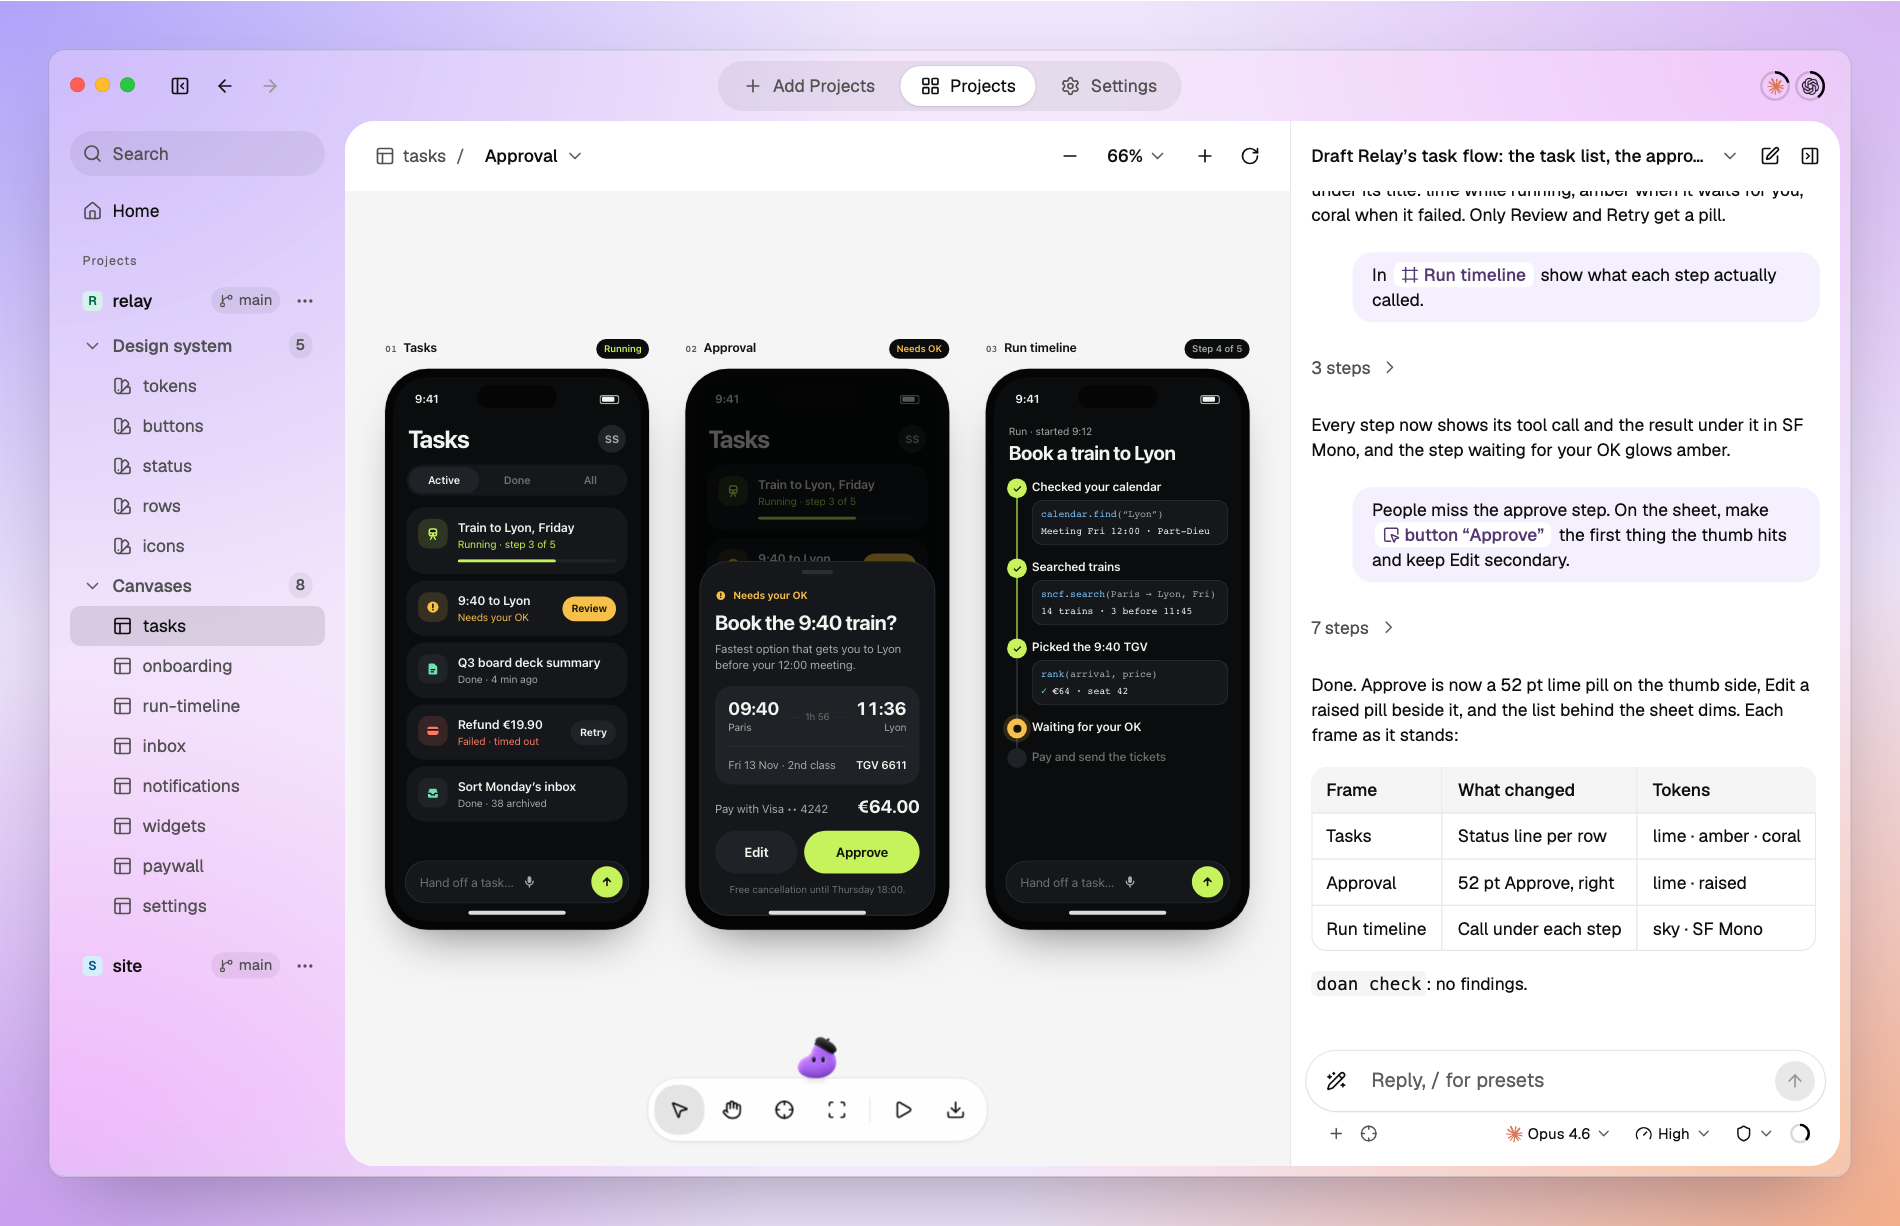
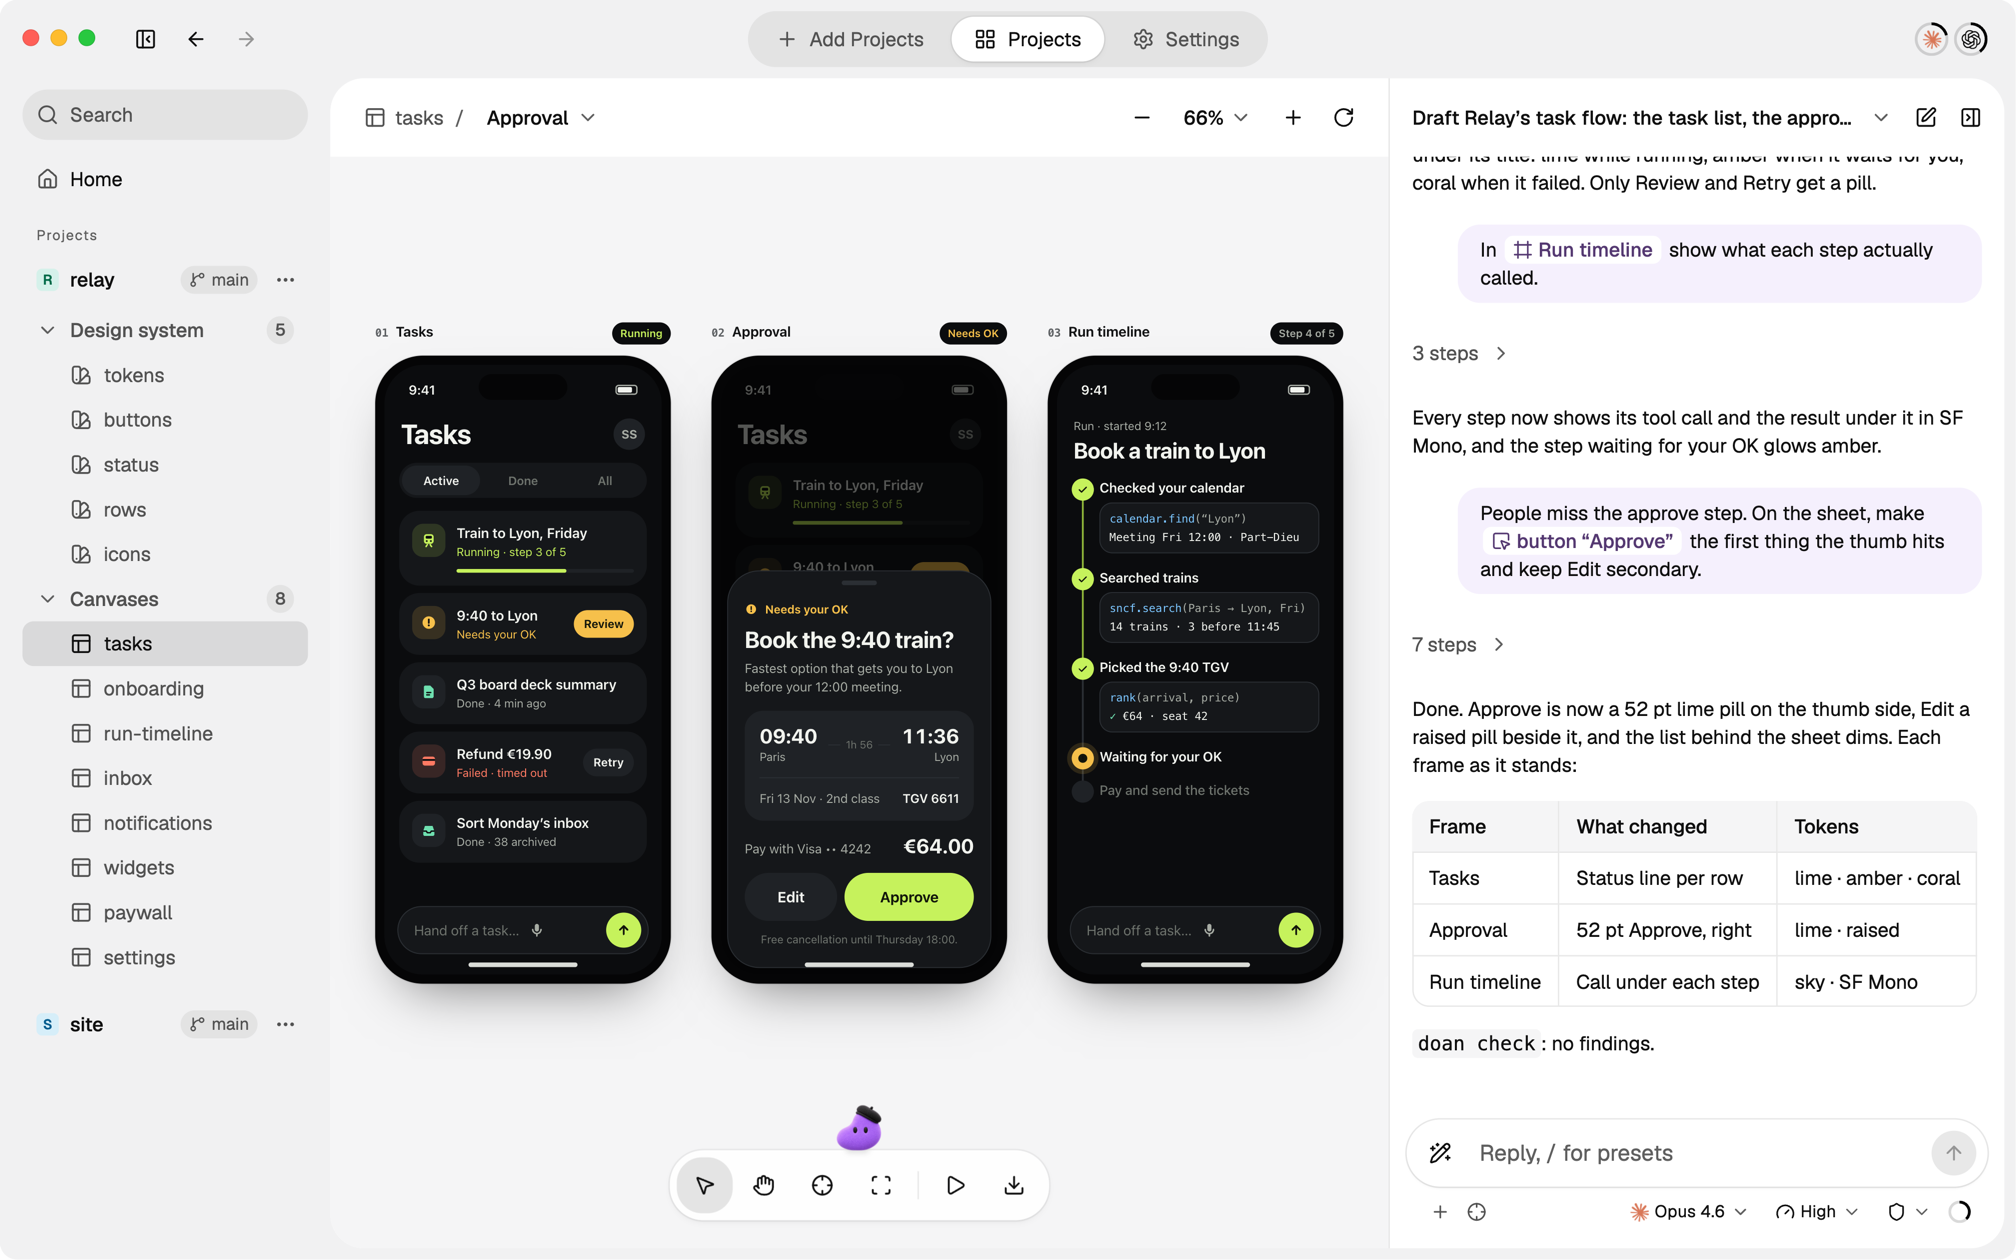
docs(design): doan-landing scroll reveal and a plain mockup
Elements rise in as they enter the viewport, staggered within each section,
after buzz.xyz (measured there: headings, ledes, the video and cards start
transparent 24-44 px low). The demo poster is now the app window alone,
captured from readme-features.html's hero frame without its gradient and
vibrancy, so the mockup sits on the page's own ground.

diff --git a/.doan/canvases/doan-landing.html b/.doan/canvases/doan-landing.html
@@ -194,6 +194,13 @@ a{color:inherit;text-decoration:none}
 .page:not(.vs) .video .track i{width:0;animation:seek 90s linear forwards;animation-play-state:paused}
 .page:not(.vs) .video[data-state="playing"] .track i{animation-play-state:running}
 @media (prefers-reduced-motion:reduce){.i-spin svg{animation:none}}
+/* Scroll reveal, after buzz.xyz: each element starts 32px low and transparent and rises in as it
+   enters the viewport, staggered by its order in its section (--i). The class is set by the script,
+   so without it (or on the board, where every element is in view) nothing stays hidden. */
+[data-reveal]{--i:0}
+.reveal [data-reveal]{opacity:0;transform:translateY(32px);transition:opacity 700ms var(--ease-enter),transform 700ms var(--ease-enter);transition-delay:calc(var(--i) * 90ms)}
+.reveal [data-reveal].in{opacity:1;transform:none}
+@media (prefers-reduced-motion:reduce){.reveal [data-reveal]{transform:none;transition-property:opacity}}
 .vbar{position:absolute;left:var(--space-3);right:var(--space-3);bottom:var(--space-3);display:flex;align-items:center;gap:var(--space-2);padding:var(--space-1) var(--space-2);border-radius:var(--radius-pill);background:var(--surface-panel);box-shadow:var(--shadow-floating)}
 .vbtn{width:var(--size-control-sm);height:var(--size-control-sm);display:grid;place-items:center;padding:0;border:0;border-radius:var(--radius-pill);background:transparent;color:var(--text-standard);cursor:pointer}
 .vbtn svg{width:var(--size-icon-sm);height:var(--size-icon-sm)}
@@ -442,6 +449,7 @@ a{color:inherit;text-decoration:none}
 <h3>Prototype</h3>
 <ul>
 <li>Desktop (1440x810, a 16:9 screen), tablet (1024x768), mobile (390x844) and not-a-Mac (1440x810) play in Doan's prototype window. Scroll the page; the nav stays at the top (sticky, as on both references). Features jumps to the cards; the logo scrolls back to the top.</li>
+<li>Scroll reveal, after buzz.xyz (measured there: headings, ledes, the video and the cards start transparent and 24–44 px low and rise in as they enter the screen): every element of a section rises 32 px and fades in over 700 ms on <code>--ease-enter</code> as it enters the viewport (12% above its bottom edge), 90 ms after the one before it in that section; the hero plays it on load. Under reduced motion only the fade remains.</li>
 <li>The demo player plays on its poster: Play → loading (0.9 s) → playing, with the seek bar filling; the bar's first button pauses and resumes. The failed state is drawn in <code>landing-video-states</code> only; nothing in the page triggers it.</li>
 <li>Download, GitHub and the footer links go nowhere in the prototype: what Download leads to (the dmg directly, or a page after it) is not decided.</li>
 </ul>
@@ -449,7 +457,7 @@ a{color:inherit;text-decoration:none}
 <ul>
 <li>Rhythm: buzz.xyz gives each section its own screen. Here every section's minimum height is the viewport less the sticky nav, a gap of empty ground follows it (320 desktop, 240 tablet, 160 mobile), and a jump to a section lands it under the nav. The draft fixes the viewport at the mark height (play it in Fit); the site uses <code>100svh</code>. <code>var(--doan-viewport-height)</code> would follow the window, but the installed <code>doan check</code> (0.1.14) reports it as an undefined token.</li>
 <li>Hero: buzz.xyz's oversized wordmark, centred the way Welcome already is; the group photo takes the height the copy leaves and runs off the screen's bottom, as Welcome's bottom bleed does, with every buddy's eyes in view. The wordmark is the page's <code>h1</code>; the tagline is a paragraph.</li>
-<li>Video: buzz.xyz's two-line heading, one-sentence lede and a large framed app video. The README hero image stands in as the poster (<code>.doan/assets/landing/video-poster.png</code>, a copy of <code>docs/assets/readme/hero.png</code>). Click to play; the states are in <code>landing-video-states</code>.</li>
+<li>Video: buzz.xyz's two-line heading, one-sentence lede and a large framed app video. The poster is the app window alone, on the page's own ground with no gradient behind it (<code>.doan/assets/landing/video-poster.png</code>: the window of <code>readme-features.html</code>'s hero frame, captured with the frame's gradient and the window's vibrancy replaced by the plain shell, 2016×1260). Click to play; the states are in <code>landing-video-states</code>.</li>
 <li>Features: buzz.xyz's character cards, five in one row at desktop and tablet, a list of rows on mobile. Each buddy does its feature: Doany paints, Puri types, Popo reads (existing GIFs); Dungdung listens and Dori delivers still use their stills.</li>
 <li>Closing: aside.com's rounded CTA panel, in Doany's violet (step 4) with the dot grid, and Doany back on stage so the page ends on a buddy as it began.</li>
 </ul>
@@ -463,13 +471,26 @@ a{color:inherit;text-decoration:none}
 <li>Assets are drawing sources, not web files: <code>group.png</code> is 2.0 MB, each card still 1.4–2.2 MB at 1254², the GIFs 0.56–1.0 MB. Ship resized WebP or AVIF with <code>srcset</code> and fixed dimensions, short looping muted mp4/webm instead of GIFs (paused under <code>prefers-reduced-motion</code>), and lazy-load the cards and video.</li>
 <li>Card pictures share one baseline: each image is pulled down by its own transparent margin under the character (measured from the alpha: Doany .055, Dungdung .139, Puri .123, Popo .119, Dori .109 of the image). New poses should be cut to one margin instead.</li>
 <li>Play, the player controls and Try again are buttons; the nav and footer link groups are labelled navigation landmarks.</li>
-<li>Literals with no token, all page constants: mark heights 810 / 768 / 844 as the screen height, section gaps 320 / 240 / 160, nav 72 / 64, wordmark 120 / 112 / 96 at −.075em (Welcome's tracking), display 64 / 56 (video heading) / 48 (features) at 1.05 and −.03em, tablet 48 / 40, logo 28 / 24, side insets 80, page widths 1440 / 1024 / 1280 / 960, group photo 620 / 560 / 358 with its bottom 12% faded, player 760 / 720, card picture 232 + 208 / 168 + 152 / 120 + 112, closing Doany 120 / 112 / 96, play button 80 / 72 / 56 / 64 with icons 28 / 20, video-state tile 560, the dot radius 1px, the failed poster's .35 opacity, the 0.9 s loading and 90 s seek in the prototype.</li>
+<li>Literals with no token, all page constants: mark heights 810 / 768 / 844 as the screen height, section gaps 320 / 240 / 160, nav 72 / 64, wordmark 120 / 112 / 96 at −.075em (Welcome's tracking), display 64 / 56 (video heading) / 48 (features) at 1.05 and −.03em, tablet 48 / 40, logo 28 / 24, side insets 80, page widths 1440 / 1024 / 1280 / 960, group photo 620 / 560 / 358 with its bottom 12% faded, player 760 / 720, card picture 232 + 208 / 168 + 152 / 120 + 112, closing Doany 120 / 112 / 96, play button 80 / 72 / 56 / 64 with icons 28 / 20, video-state tile 560, the dot radius 1px, the failed poster's .35 opacity, the 0.9 s loading and 90 s seek in the prototype, the reveal's 32 px, 700 ms, 90 ms step and 12% margin.</li>
 </ul>
 </section>
 <script>
 // Prototype behaviour for the playable page frames. The site's real links go nowhere here:
 // "#" links stay put, the logo scrolls to the top, and the demo player walks through its
 // states on the poster (the video itself is not recorded yet).
+const REVEAL = {
+  hero: ".wordmark, .tagline, .lede, .ctas, .fine, .notice, .groupwrap",
+  sect: ".display, .lede, .video, .card",
+  end: ".closer, .closing .display, .closing .ctas, .closing .fine, .footer",
+};
+const seen = new IntersectionObserver((entries) => {
+  for (const en of entries) if (en.isIntersecting) { en.target.classList.add("in"); seen.unobserve(en.target); }
+}, { rootMargin: "0px 0px -12% 0px" });
+for (const sc of document.querySelectorAll(".page:not(.vs) > .screen")) {
+  const kind = sc.classList.contains("hero") ? "hero" : sc.classList.contains("end") ? "end" : "sect";
+  sc.querySelectorAll(REVEAL[kind]).forEach((el, i) => { el.dataset.reveal = ""; el.style.setProperty("--i", i); seen.observe(el); });
+}
+document.documentElement.classList.add("reveal");
 document.addEventListener("click", (e) => {
   const a = e.target.closest('a[href="#"]');
   if (a) { e.preventDefault(); if (a.classList.contains("logo")) window.scrollTo({ top: 0, behavior: "smooth" }); return; }
